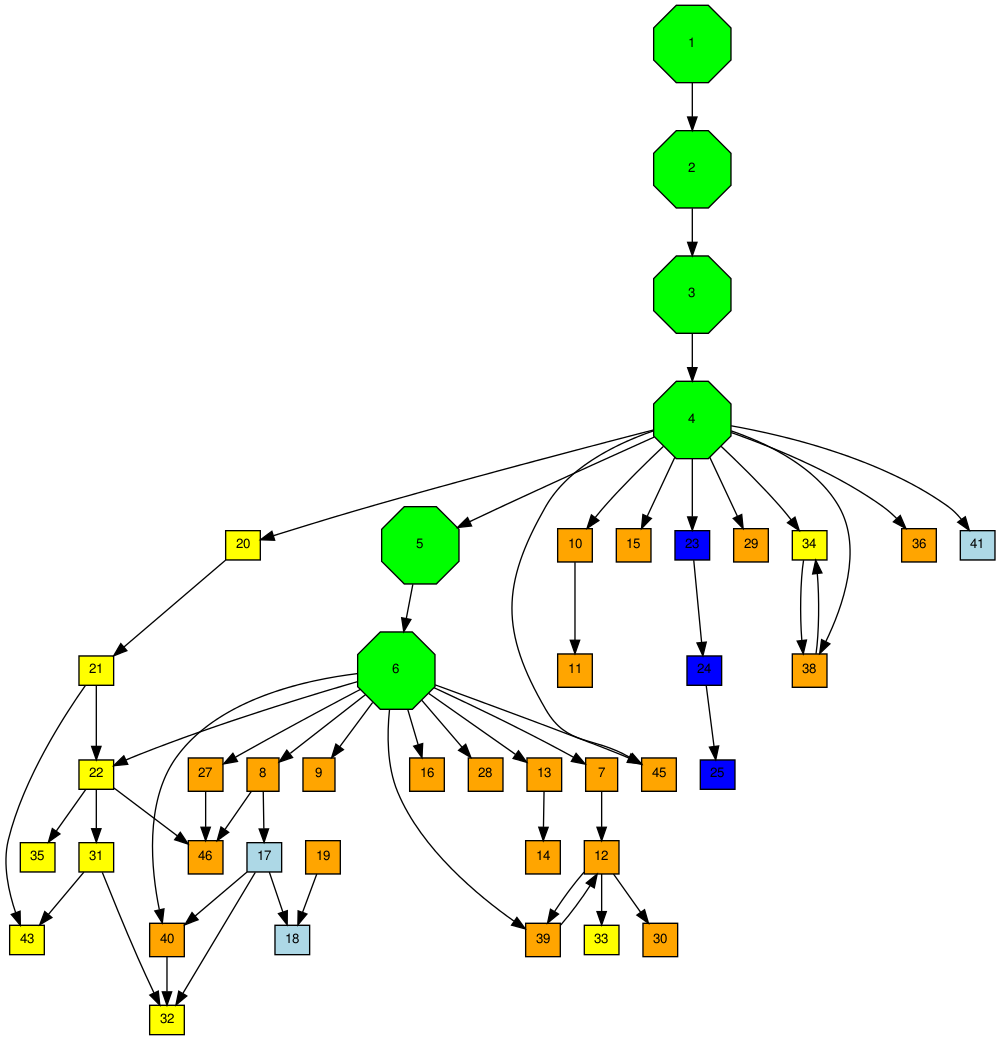
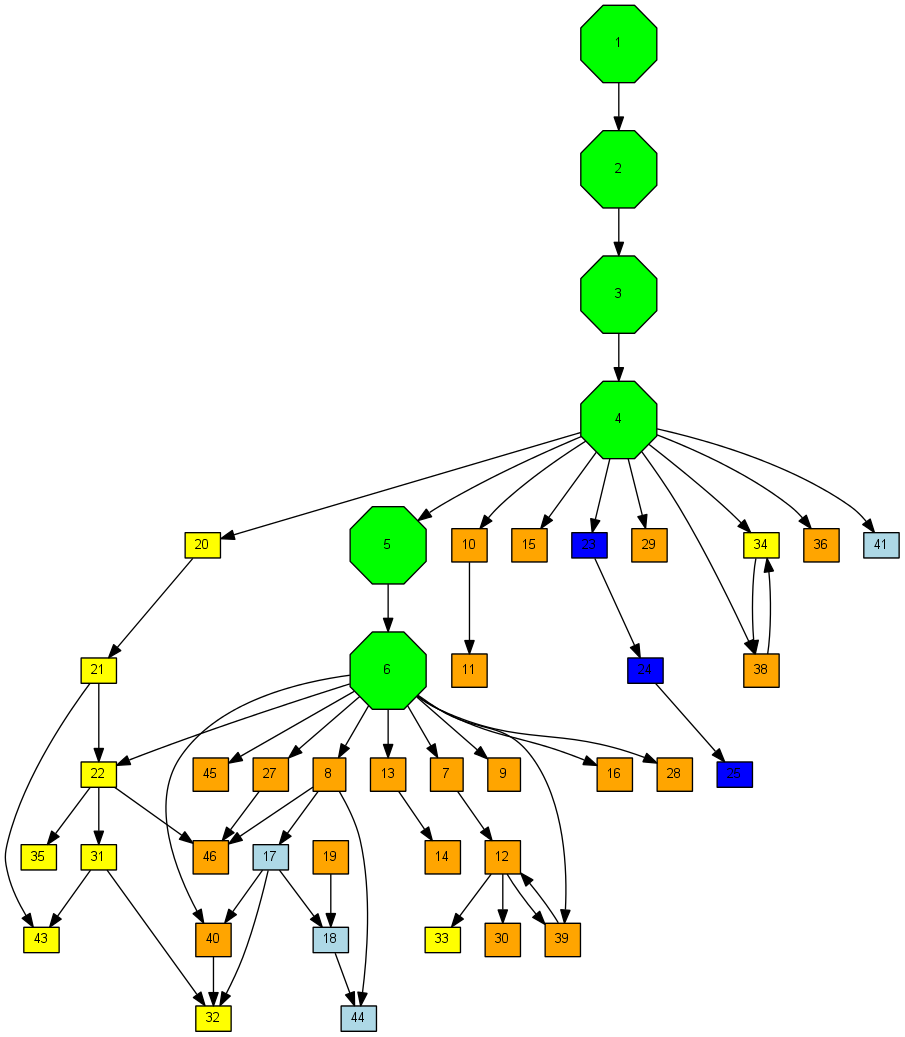
Link in step-44.
git-svn-id: https://svn.dealii.org/trunk@25108 0785d39b-7218-0410-832d-ea1e28bc413d

diff --git a/deal.II/doc/doxygen/tutorial/navbar.html b/deal.II/doc/doxygen/tutorial/navbar.html
@@ -36,45 +36,60 @@
 	  <a href="../../doxygen/deal.II/step_1.html" target="body">1</a>&nbsp;
 	  <a href="../../doxygen/deal.II/step_2.html" target="body">2</a>&nbsp;
 	  <a href="../../doxygen/deal.II/step_3.html" target="body">3</a><br />
+
 	  <a href="../../doxygen/deal.II/step_4.html" target="body">4</a>&nbsp;
 	  <a href="../../doxygen/deal.II/step_5.html" target="body">5</a>&nbsp;
 	  <a href="../../doxygen/deal.II/step_6.html" target="body">6</a><br />
+
 	  <a href="../../doxygen/deal.II/step_7.html" target="body">7</a>&nbsp;
 	  <a href="../../doxygen/deal.II/step_8.html" target="body">8</a>&nbsp;
 	  <a href="../../doxygen/deal.II/step_9.html" target="body">9</a><br />
+
 	  <a href="../../doxygen/deal.II/step_10.html" target="body">10</a>&nbsp;
 	  <a href="../../doxygen/deal.II/step_11.html" target="body">11</a>&nbsp;
 	  <a href="../../doxygen/deal.II/step_12.html" target="body">12</a><br />
+
 	  <a href="../../doxygen/deal.II/step_13.html" target="body">13</a>&nbsp;
 	  <a href="../../doxygen/deal.II/step_14.html" target="body">14</a>&nbsp;
 	  <a href="../../doxygen/deal.II/step_15.html" target="body">15</a><br />
+
 	  <a href="../../doxygen/deal.II/step_16.html" target="body">16</a>&nbsp;
 	  <a href="../../doxygen/deal.II/step_17.html" target="body">17</a>&nbsp;
 	  <a href="../../doxygen/deal.II/step_18.html" target="body">18</a><br />
+
 	  <a href="../../doxygen/deal.II/step_19.html" target="body">19</a>&nbsp;
 	  <a href="../../doxygen/deal.II/step_20.html" target="body">20</a>&nbsp;
 	  <a href="../../doxygen/deal.II/step_21.html" target="body">21</a><br />
+
 	  <a href="../../doxygen/deal.II/step_22.html" target="body">22</a>&nbsp;
 	  <a href="../../doxygen/deal.II/step_23.html" target="body">23</a>&nbsp;
 	  <a href="../../doxygen/deal.II/step_24.html" target="body">24</a><br />
+
 	  <a href="../../doxygen/deal.II/step_25.html" target="body">25</a>&nbsp;
 	  <a href="../../doxygen/deal.II/step_27.html" target="body">27</a>&nbsp;
 	  <a href="../../doxygen/deal.II/step_28.html" target="body">28</a><br />
+
 	  <a href="../../doxygen/deal.II/step_29.html" target="body">29</a>&nbsp;
 	  <a href="../../doxygen/deal.II/step_30.html" target="body">30</a>&nbsp;
 	  <a href="../../doxygen/deal.II/step_31.html" target="body">31</a><br />
+
 	  <a href="../../doxygen/deal.II/step_32.html" target="body">32</a>&nbsp;
 	  <a href="../../doxygen/deal.II/step_33.html" target="body">33</a>&nbsp;
 	  <a href="../../doxygen/deal.II/step_34.html" target="body">34</a><br />
+
 	  <a href="../../doxygen/deal.II/step_35.html" target="body">35</a>&nbsp;
 	  <a href="../../doxygen/deal.II/step_36.html" target="body">36</a>&nbsp;
 	  <a href="../../doxygen/deal.II/step_38.html" target="body">38</a><br />
+
 	  <a href="../../doxygen/deal.II/step_39.html" target="body">39</a>&nbsp;
 	  <a href="../../doxygen/deal.II/step_40.html" target="body">40</a>&nbsp;
 	  <a href="../../doxygen/deal.II/step_41.html" target="body">41</a><br />
+
 	  <a href="../../doxygen/deal.II/step_43.html" target="body">43</a>&nbsp;
-	  <a href="../../doxygen/deal.II/step_45.html" target="body">45</a>&nbsp;
-	  <a href="../../doxygen/deal.II/step_46.html" target="body">46</a>
+	  <a href="../../doxygen/deal.II/step_44.html" target="body">44</a>&nbsp;
+	  <a href="../../doxygen/deal.II/step_45.html" target="body">45</a><br />
+
+	  <a href="../../doxygen/deal.II/step_46.html" target="body">46</a>&nbsp;
 	</p>
 
 	<hr>
